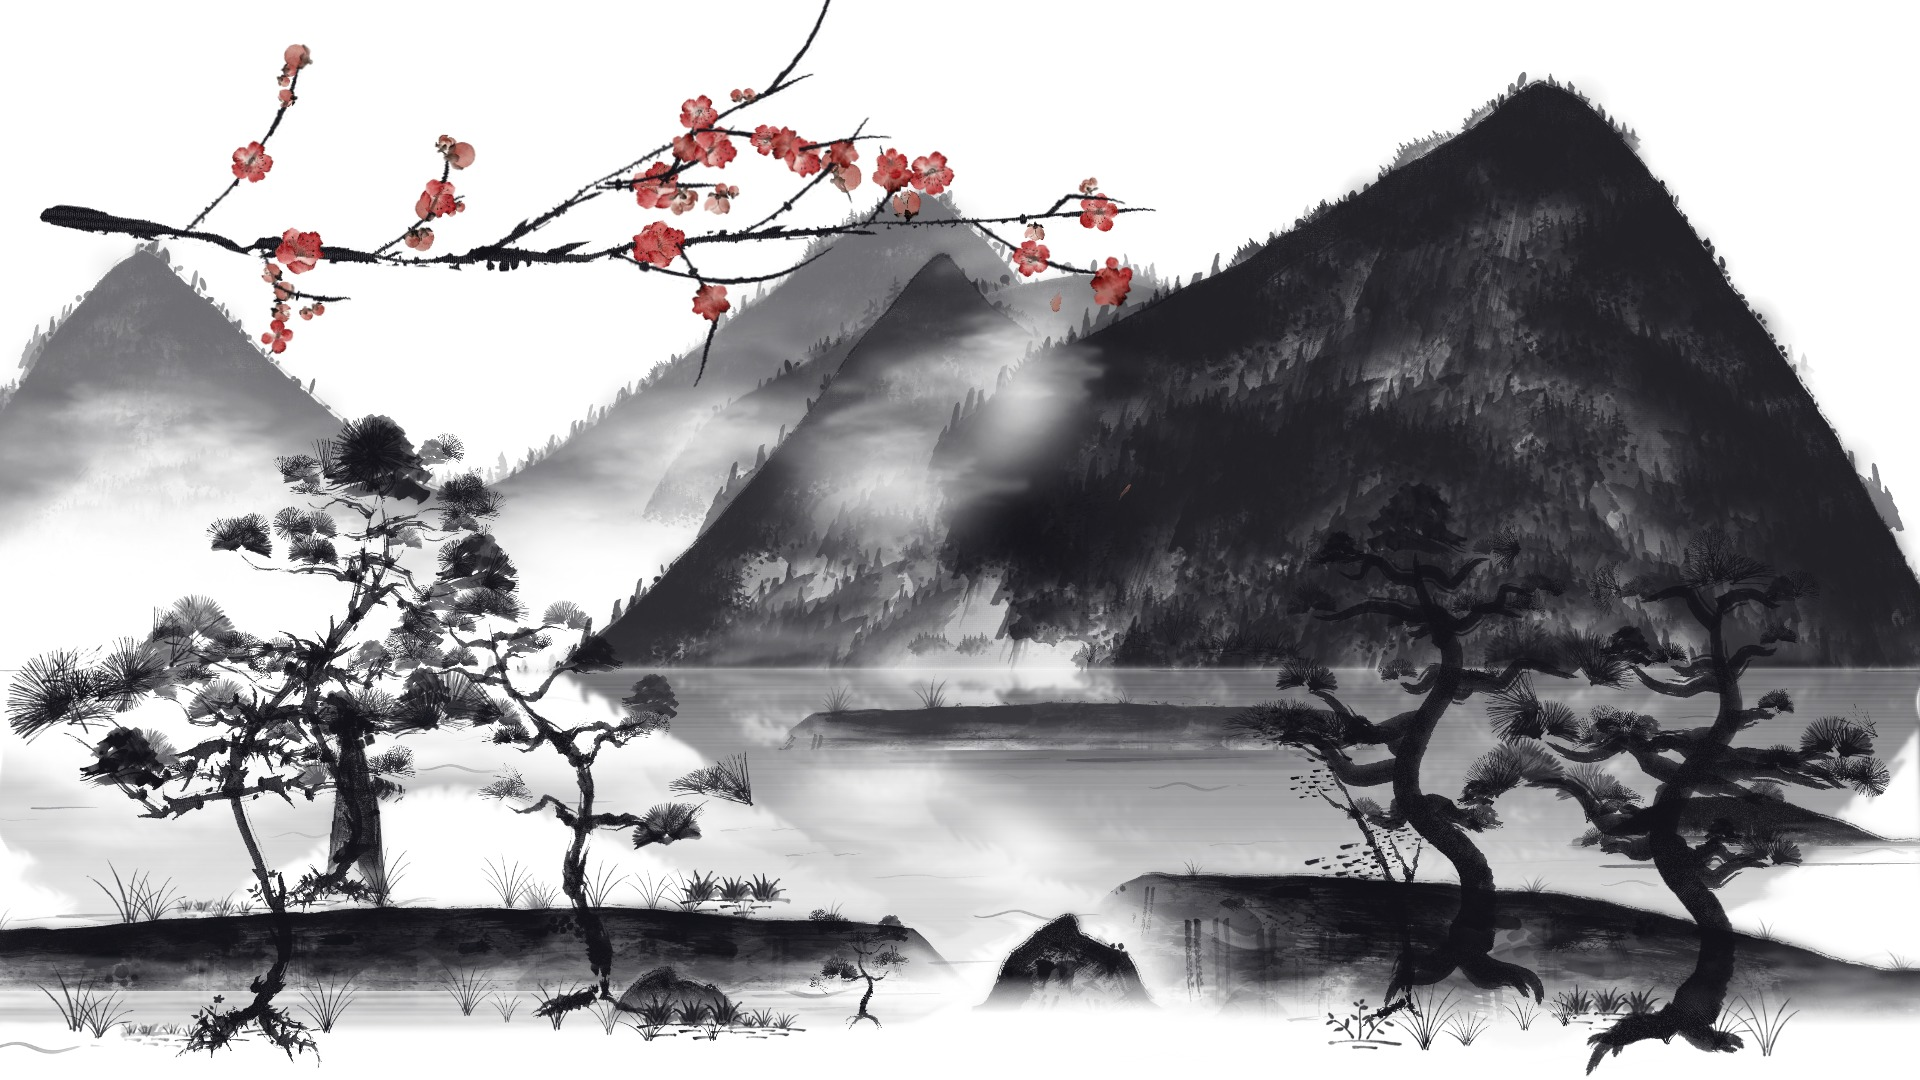
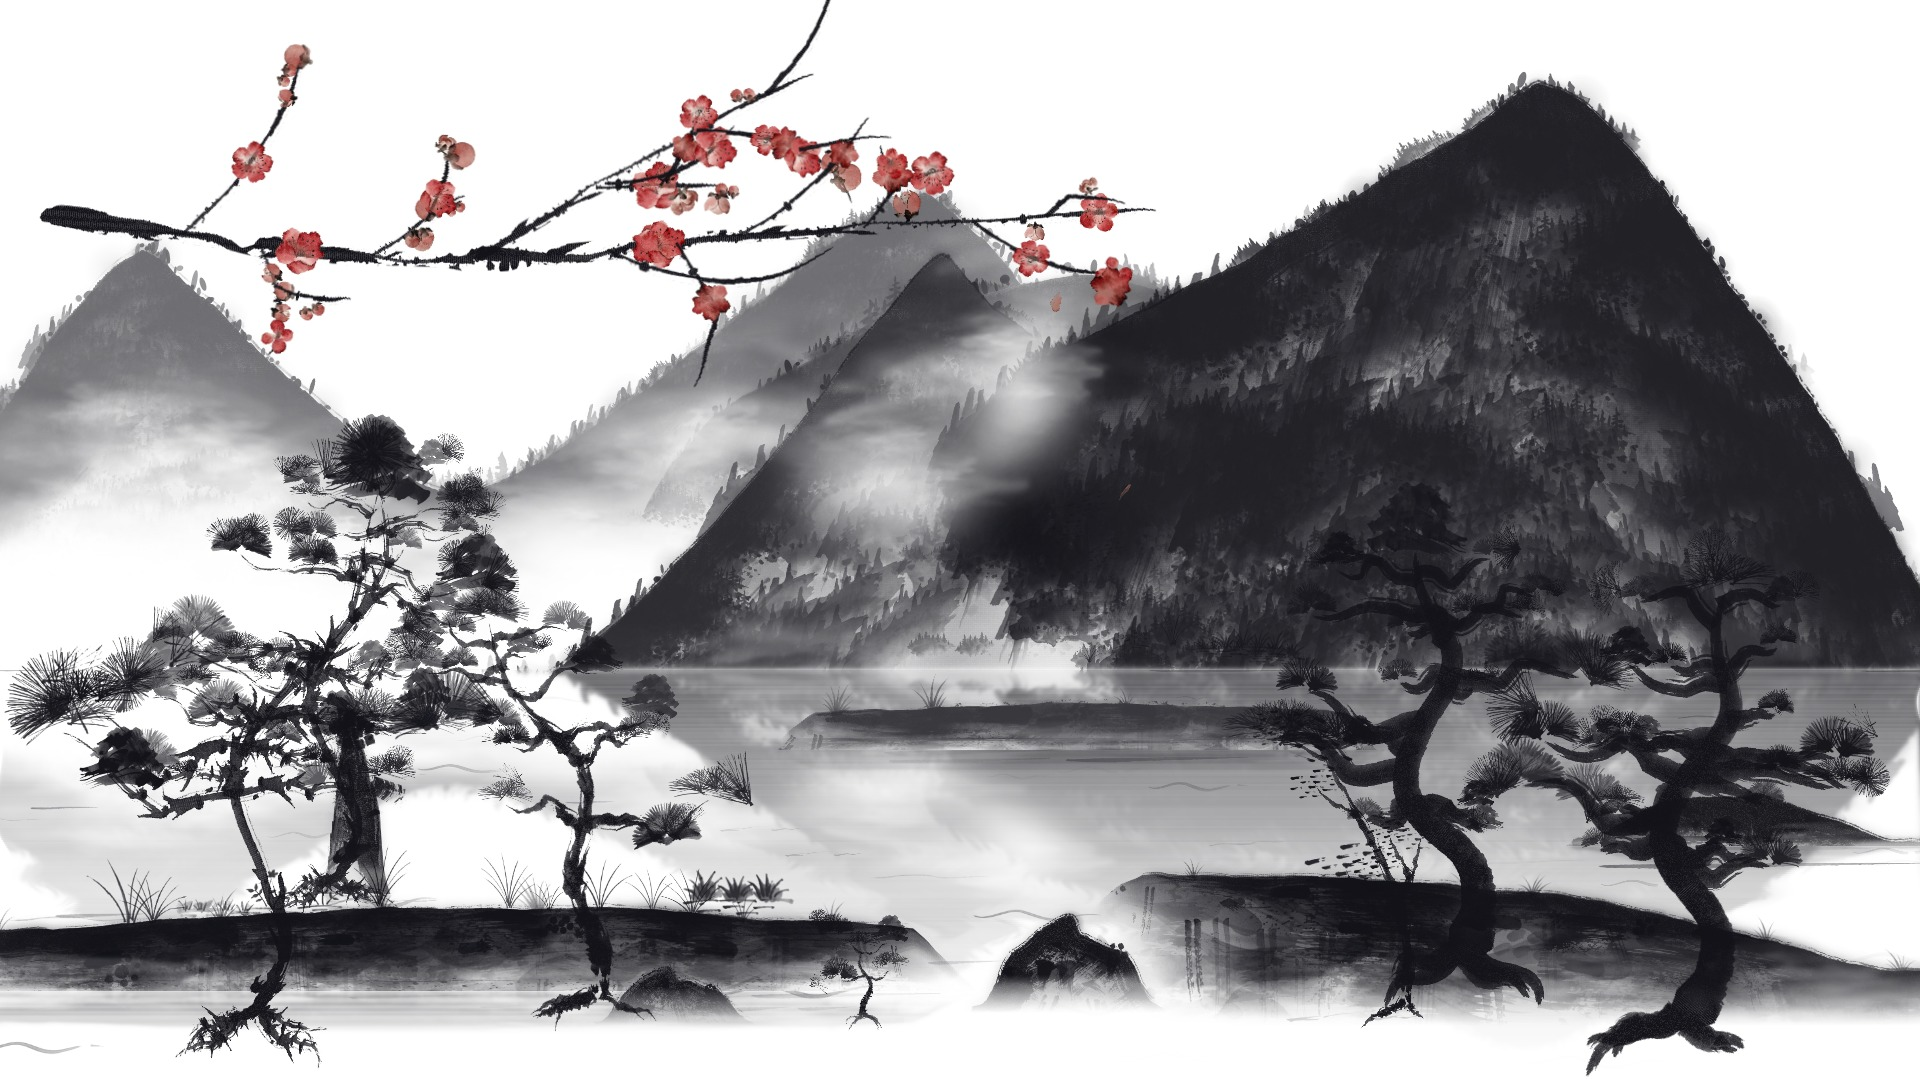
Grass: every tuft checked against land when built

diff --git a/web/room/paint.js b/web/room/paint.js
@@ -76,7 +76,7 @@
   function inkOn(m, k) { if (!m.inkB) { m.inkB = new Uint8Array(m.ts.length); try { const c = m.cv, im = c.getContext('2d').getImageData(0, 0, c.width, c.height).data, H = D.H; for (let j = 0; j < m.ts.length; j++) { const px = Math.round((m.bx0 + (j + 0.5) * BIN - m.ox) * dpr); let a = 0; for (const dy of [0.008, 0.016, 0.026]) { const py = Math.round((m.ts[j] + dy * H - m.oy) * dpr); if (px >= 0 && px < c.width && py >= 0 && py < c.height) a = Math.max(a, im[4 * (py * c.width + px) + 3]); } m.inkB[j] = a > 70 ? 1 : 0; } } catch (e) { m.inkB.fill(1); } } return m.inkB[k]; }
   function ground(x, y) { const H = D.H; let best = null;
     for (const o of st.done) { const m = o.m; if (!m || !m.ts || m.river) continue; const k = Math.floor((x - m.bx0) / BIN); if (k < 0 || k >= m.ts.length) continue; const t = m.ts[k];
-      if (m.solid) { if (inkOn(m, k) && y > t - 0.05 * H && y < m.yBase + 0.02 * H) { const e = Math.abs(y - t); if (!best || !best.solid || e < best.e) best = { y: t, e, solid: true }; } }
+      if (m.solid) { if (inkOn(m, k) && y > t - 0.05 * H && y < m.yBase) { const e = Math.abs(y - t); if (!best || !best.solid || e < best.e) best = { y: t, e, solid: true }; } }
       else if (!best && y > t && y < m.yBase && !st.done.some((w) => w.m && w.m.wat && inWater(w.m, x, y))) best = { y, e: 0, solid: false }; }   // (a mountain's body runs on under the water before it: that is water, not land)
     return best; }
   function plant(q0, kind) { const H = D.H, q = q0.map((p) => p.slice());
@@ -1340,7 +1340,7 @@
     const set = []; let i = 0;
     for (let s = R() * 0.02 * H; s < cum[n - 1]; s += H * (0.018 + 0.045 * R())) { while (i < n - 1 && cum[i] < s) i++;
       const r = R(), r2 = R(), r3 = R(), r4 = R(), r5 = R(); if (N(s / (0.16 * H) + 5, 2) < 0.4 && cum[n - 1] > 0.2 * H) continue;   // a short stroke is one group: no bare stretch in it
-      const kit = r < 0.6 || !kitV.length ? kitU : r < 0.9 || !kitZ.length ? kitV : kitZ, y = P[i][1] + (r2 - 0.5) * 0.008 * H;
+      const kit = r < 0.6 || !kitV.length ? kitU : r < 0.9 || !kitZ.length ? kitV : kitZ, y = P[i][1] + (r2 - 0.5) * 0.008 * H; if (!ground(P[i][0], y)) continue;   // every tuft is asked again when built, whatever way the stroke came in (Yang 11-19: "vẫn có vài ngọn cỏ mọc ngoài phạm vi của rìa đất")
       set.push({ q: kit[Math.floor(r5 * kit.length) % kit.length], x: P[i][0], y, w: H * (0.016 + 0.036 * nearY(y)) * (0.6 + 0.8 * r3) * (kit === kitV ? 1.6 : 1) * farK, fl: r4 < 0.5, a: (0.45 + 0.55 * nearY(y)) * (0.7 + 0.3 * r4) * (farK < 1 ? 0.6 : 1) }); }
     set.sort((p, q) => p.y - q.y);
     for (const t of set) { g.globalAlpha = t.a; stand(g, t.q, t.x, t.y, t.w, t.fl); } g.globalAlpha = 1;

diff --git a/DESIGN.md b/DESIGN.md
@@ -190,3 +190,4 @@ Water as layer divider + whole-mountain mirror image = modern ink style (classic
 - Trunk cross-ribs (11-19, Yang: "sao lại có cái vân ngang này?"): overlapping slices took ink twice (worse after bend-widening cap 4). limbRaw now lays a limb on a scratch canvas: each slice clearRect its place, then drawn with `lighter` (source-over after the wipe left a PALE hair at every slice: partial clear + partial draw < whole; tried, worse), then the limb goes onto the tree in one piece. Bot kink=1 zoom reports/trunk-ribs.jpg: ribs gone.
 
 - 11-19 Yang: "cỏ đang mọc phi logic, thân cây tùng quá mập, lá tùng quá dày". Pine trunk factor 2.7->1.9 (cap 0.11->0.08 H); needle pads 1-3 per limb (was 2-4), ~30% smaller, fewer fringe fans. Grass: land counts only where its ink shows (inkOn: alpha under the top line per bin, cached on m.inkB) for ground() and for a bank's own edge tufts; grass on a mountain side (ground not solid) x0.45 size, paler. Cause of tufts on water in his shot NOT reproduced: guessed = bank top line running on where the body had thinned out. Bot: reports/pine-grass.jpg.
+- Grass, 2nd pass (Yang on the bot image: tufts under the banks, off the land): rule was only in plant(); bot/old strokes bypassed it. grass() now asks ground() per tuft at build; solid land ends at its foot (was foot + 0.02 H).
